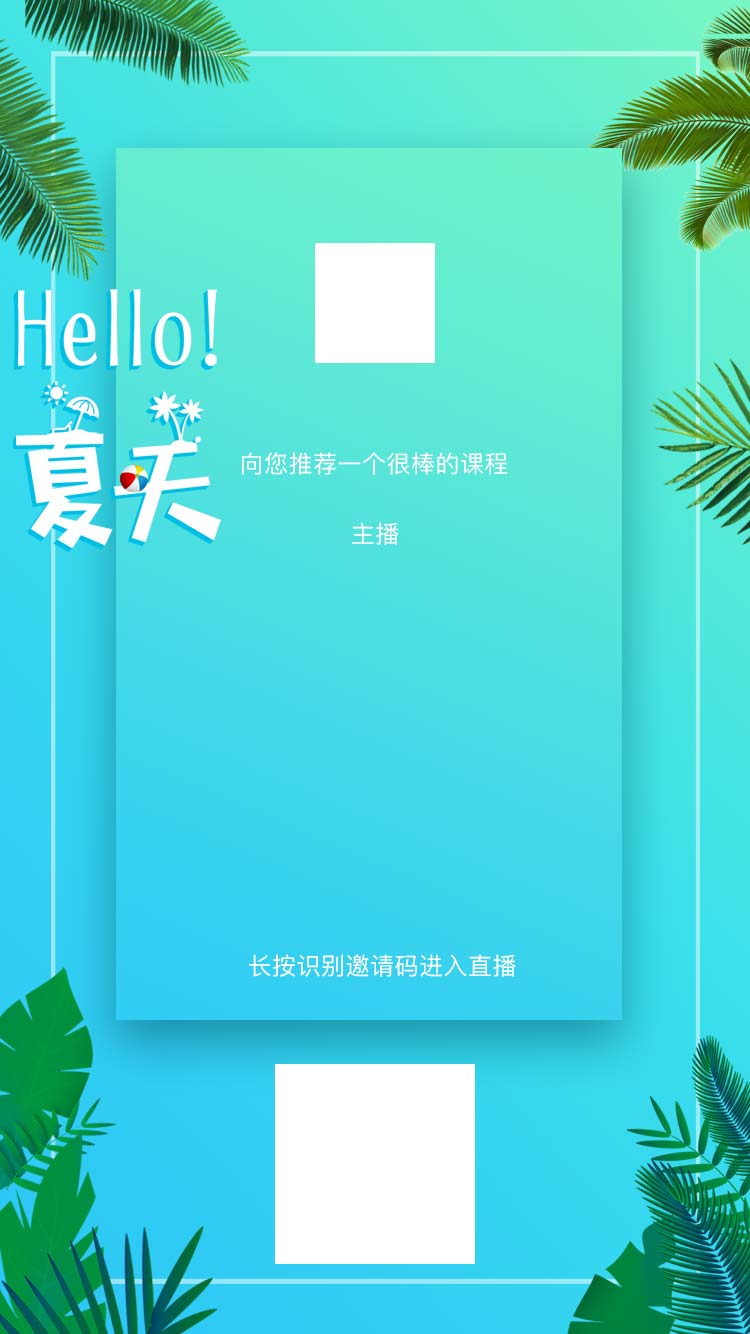
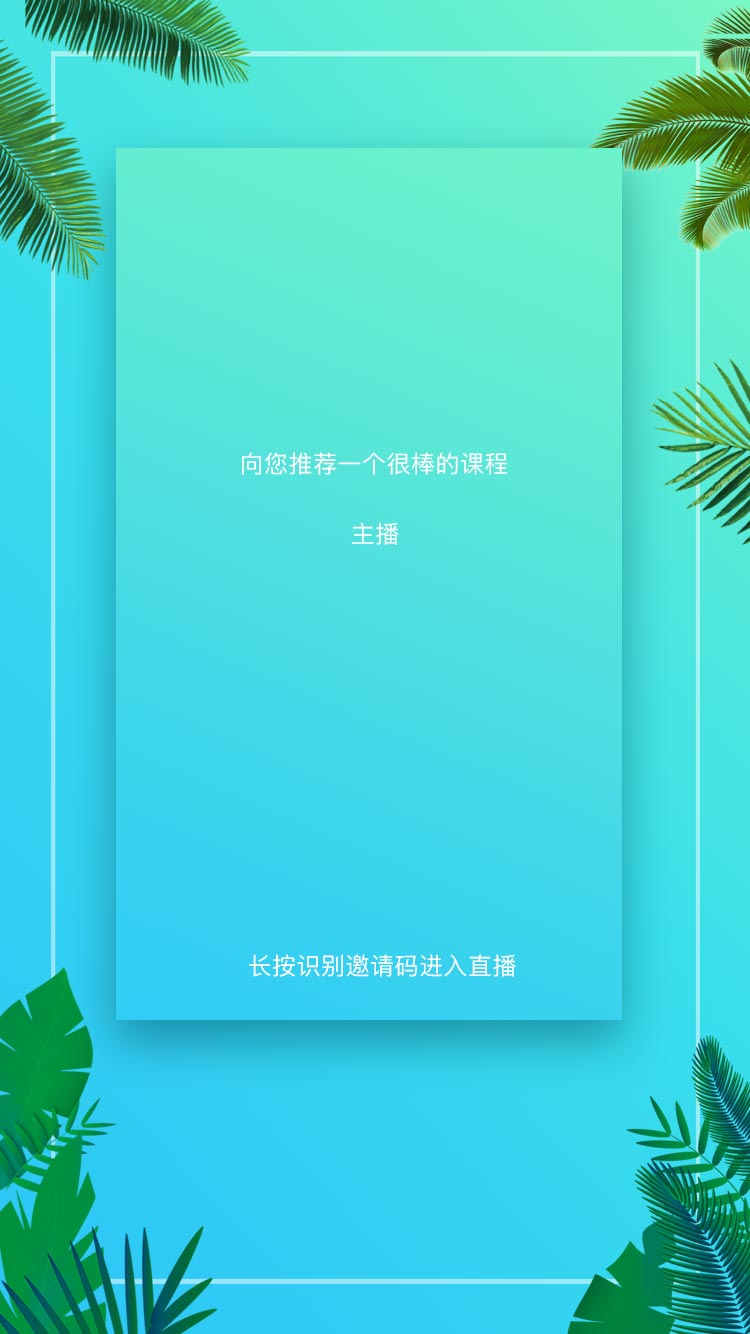
邀请卡 修改样式

Changed region(s): [[0.0, 0.2151, 0.3067, 0.4303], [0.368, 0.7991, 0.644, 0.9528], [0.3987, 0.1844, 0.5827, 0.2766]]

diff --git a/application/controllers/Lives.php b/application/controllers/Lives.php
@@ -707,14 +707,14 @@ class Lives extends BaseController
         $height = ImageSY($bgImg);//1334
 
         //username
-        $usernameFontSize = 26;
+        $usernameFontSize = 20;
         $usernameWidth = $this->charWidth($usernameFontSize, $fontFile, $username);
         $usernameX = ceil(($width - $usernameWidth) / 2);
-        $usernameY = 400;
+        $usernameY = 406;
 
         //live subject
         $subject=$this->filterEmoji($subject);
-        $subjectFontSize = 32;
+        $subjectFontSize = 22;
         $subjectWrap = $this->autoWrap($subjectFontSize, $fontFile, $subject, 450);
         $subject = $subjectWrap;
         $subjectWidth = $this->charWidth($subjectFontSize, $fontFile, $subject);
@@ -722,7 +722,7 @@ class Lives extends BaseController
         $subjectY = 680;
 
         //owner name
-        $ownerFontSize = 26;
+        $ownerFontSize = 20;
         $ownerWidth = $this->charWidth($ownerFontSize, $fontFile, $owner);
         $ownerX = ceil (($width - $ownerWidth) /2);
         $ownerY = 588;
@@ -730,10 +730,10 @@ class Lives extends BaseController
         //time
         $date = date_create($time);
         $time = date_format($date,"Y/m/d H:i");
-        $timeFontSize = 28;
+        $timeFontSize = 24;
         $timeWidth = $this->charWidth($timeFontSize, $fontFile, $time);
         $timeX = ceil (($width - $timeWidth) /2);
-        $timeY = 865;
+        $timeY = 880;
 
         //avatar
         $avatarImg = $this->openAllTypeImage($avatarUrl);//获得头像图片
